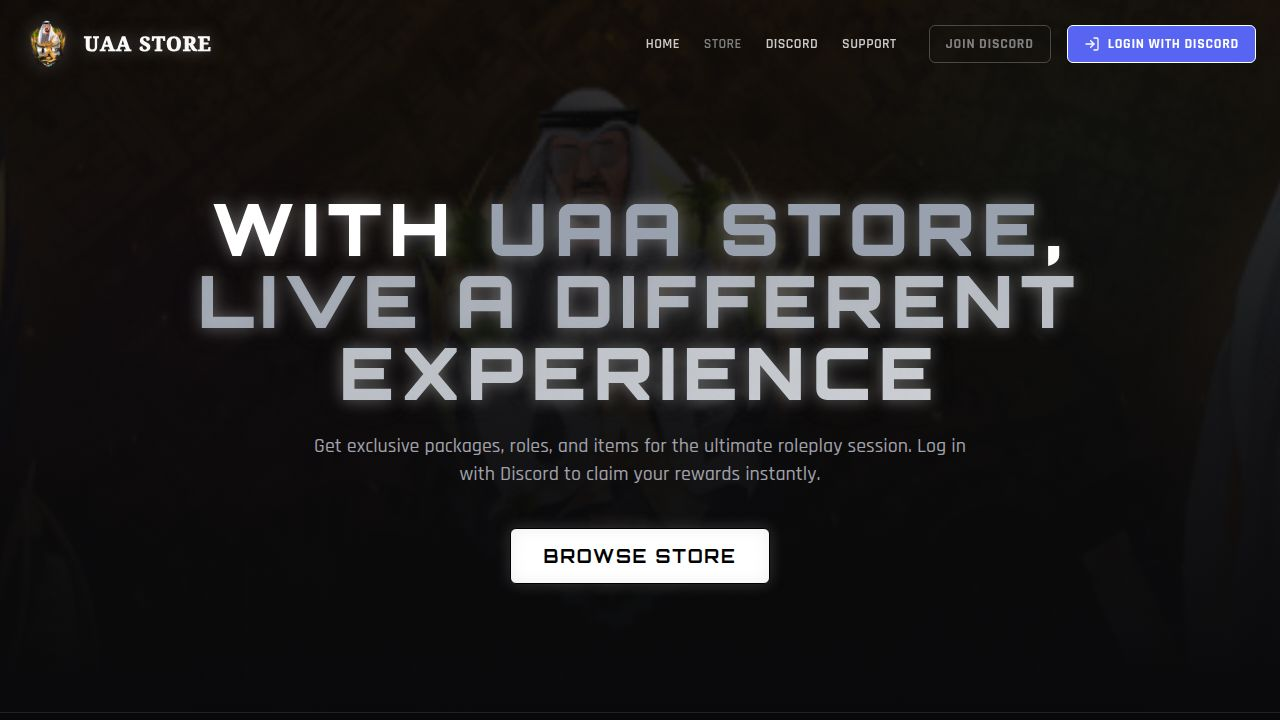
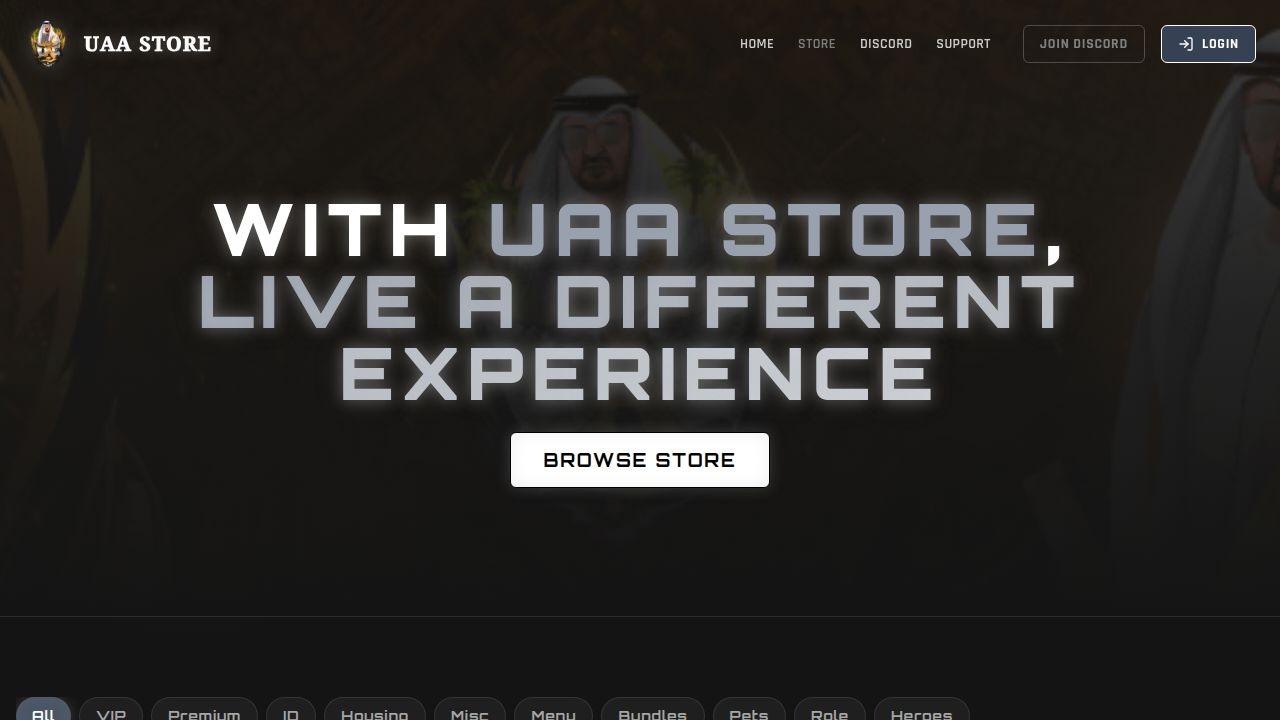
Remove descriptive text from the home page
Delete the paragraph element containing package and login reward information from the home page component (`client/src/pages/home.tsx`).

Replit-Commit-Author: Agent
Replit-Commit-Session-Id: df68417a-05c5-4cce-9be2-ff0393778606
Replit-Commit-Checkpoint-Type: full_checkpoint
Replit-Commit-Event-Id: a75e552f-fd46-424d-82fd-37929107a4f5
Replit-Commit-Screenshot-Url: https://storage.googleapis.com/screenshot-production-us-central1/167e323f-6add-4ef7-9ef3-a219f516f5a2/df68417a-05c5-4cce-9be2-ff0393778606/dAhlMTZ
Replit-Helium-Checkpoint-Created: true

diff --git a/client/src/pages/home.tsx b/client/src/pages/home.tsx
@@ -47,9 +47,6 @@ export default function Home() {
           <h1 className="text-5xl md:text-7xl font-display font-black text-white mb-6 tracking-widest uppercase neon-text-gray">
             With <span className="text-gray-400">UAA STORE</span>,<br/><span className="text-transparent bg-clip-text bg-gradient-to-r from-gray-400 to-gray-300">Live a Different Experience</span>
           </h1>
-          <p className="text-lg md:text-xl text-muted-foreground max-w-2xl mx-auto mb-10 font-medium">
-            Get exclusive packages, roles, and items for the ultimate roleplay session. Log in with Discord to claim your rewards instantly.
-          </p>
           <Button size="lg" className="h-14 px-8 text-lg bg-white text-black hover:bg-white/90 font-display font-bold uppercase tracking-widest neon-box-gray">
             Browse Store
           </Button>
